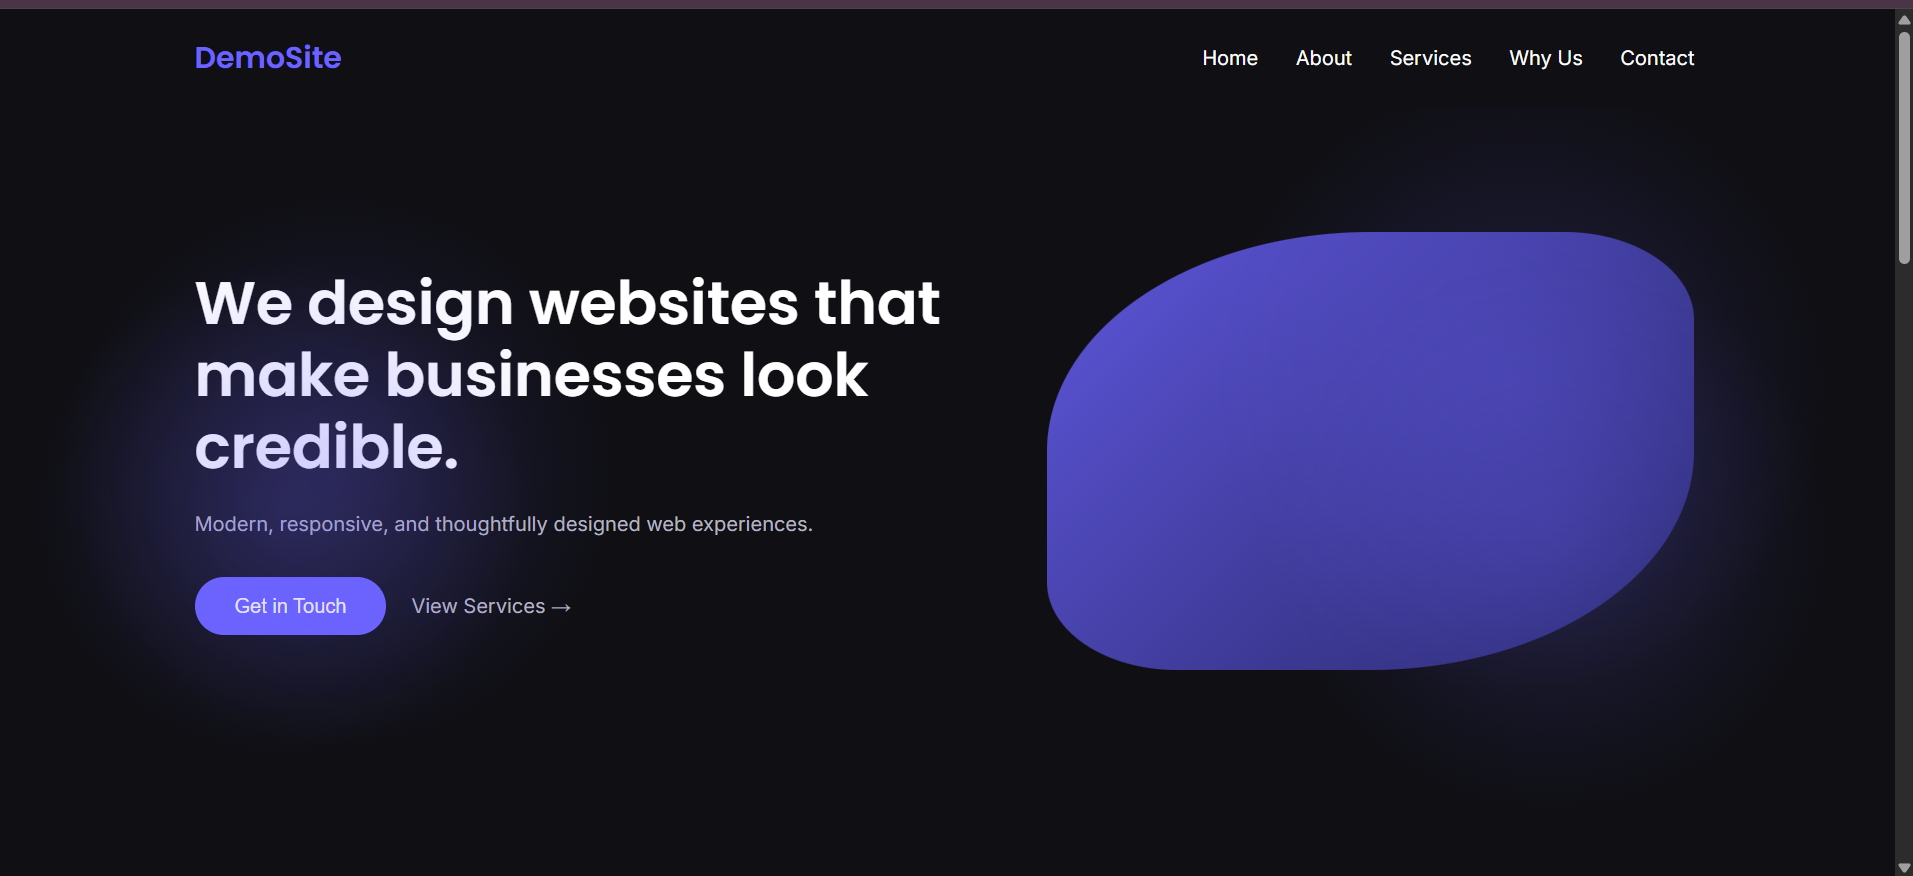
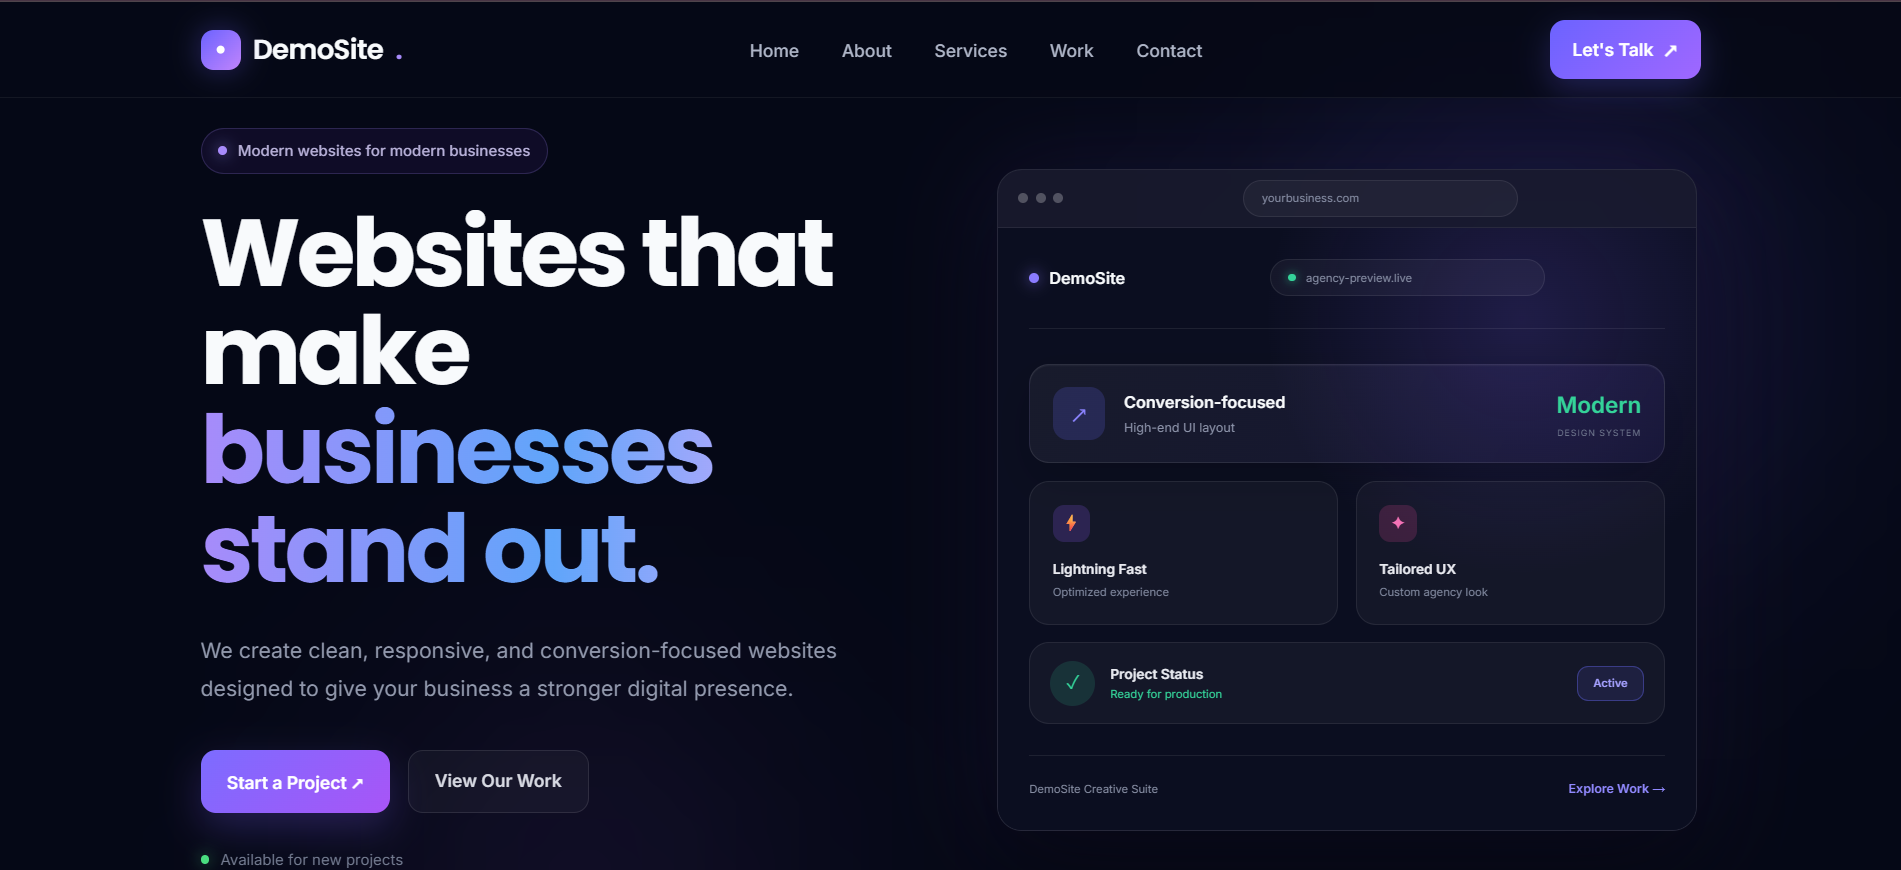
Update project screenshots and project section

diff --git a/src/data/projects.js b/src/data/projects.js
@@ -20,25 +20,15 @@ export const projectItems = [
       'MongoDB',
       'Mongoose',
     ],
-    demoUrl: 'https://my-travel-journal-mu-ten.vercel.app/login',
+    demoUrl: 'https://my-travel-journal-mu-ten.vercel.app/',
     githubUrl: 'https://github.com/vinitha3031/my-travel-journal',
-  },
-
-  {
-    title: 'Single Page Website',
-    description:
-      'A responsive single-page website built using HTML, CSS, and JavaScript, focusing on clean layout, styling, and interactive web elements.',
-    image: 'Single-page-website.png',
-    techStack: ['HTML', 'CSS', 'JavaScript'],
-    demoUrl: 'https://vinitha3031.github.io/single-page-website/',
-    githubUrl: 'https://github.com/vinitha3031/single-page-website',
   },
 
   {
     title: 'Student Database Management System',
     description:
       'A web-based student database management system built with Flask and MySQL, providing user authentication and database management features.',
-    image: 'StudentDB.png',
+    image: 'StudentDb.png',
     techStack: [
       'Python',
       'Flask',
@@ -50,8 +40,19 @@ export const projectItems = [
       'HTML',
       'JavaScript',
     ],
-    demoUrl: '#',
+    demoUrl: 'https://student-database-management-system-fawn.vercel.app/',
     githubUrl:
       'https://github.com/vinitha3031/Student-Database-Management-System',
   },
+
+  {
+    title: 'Single Page Website',
+    description:
+      'A responsive single-page website built using HTML, CSS, and JavaScript, focusing on clean layout, styling, and interactive web elements.',
+    image: 'Single-page-website.png',
+    techStack: ['HTML', 'CSS', 'JavaScript'],
+    demoUrl: 'https://vinitha3031.github.io/single-page-website/',
+    githubUrl: 'https://github.com/vinitha3031/single-page-website',
+  }
+
 ]

diff --git a/src/sections/ProjectsSection.jsx b/src/sections/ProjectsSection.jsx
@@ -51,6 +51,7 @@ export default function ProjectsSection({ projectItems, sectionContent }) {
               <div className="space-y-4 p-6">
                 <h3 className="text-xl font-semibold text-slate-100">{project.title}</h3>
                 <p className="text-sm text-slate-300">{project.description}</p>
+                <br></br>
                 <div className="flex flex-wrap gap-2">
                   {project.techStack.map((tech) => (
                     <span
